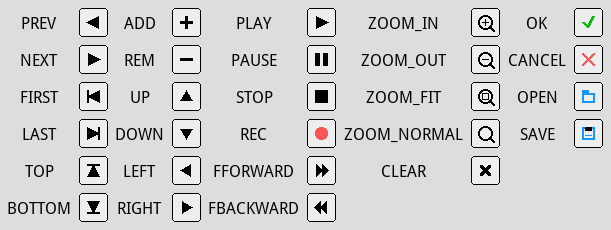
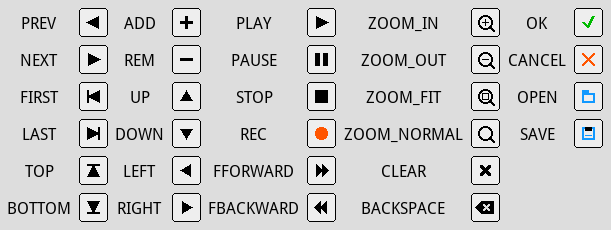
widgets: button: Add backspace button

diff --git a/libs/widgets/gp_widget_button.c b/libs/widgets/gp_widget_button.c
@@ -70,6 +70,21 @@ static void cross(gp_pixmap *buf, gp_coord cx, gp_coord cy,
 	}
 }
 
+static void backspace(gp_pixmap *pix, gp_coord cx, gp_coord cy,
+                      gp_size sym_r, gp_pixel fg, gp_pixel bg)
+{
+	gp_coord poly[] = {
+		cx + sym_r, cy-sym_r/2-sym_r/4,
+		cx + sym_r, cy+sym_r/2+sym_r/4,
+		cx - sym_r/2+sym_r/8, cy+sym_r/2+sym_r/4,
+		cx - sym_r, cy,
+		cx - sym_r/2+sym_r/8, cy-sym_r/2-sym_r/4,
+	};
+
+	gp_fill_polygon(pix, GP_ARRAY_SIZE(poly)/2, poly, fg);
+	cross(pix, cx+sym_r/4, cy, sym_r/3, sym_r/7, bg);
+}
+
 static void render(gp_widget *self, const gp_offset *offset,
                    const gp_widget_render_ctx *ctx, int flags)
 {
@@ -261,6 +276,9 @@ static void render(gp_widget *self, const gp_offset *offset,
 	case GP_BUTTON_CLEAR:
 		cross(ctx->buf, cx, cy, sym_r-sym_r/6, 2 * (asc/8)-asc/16, ctx->text_color);
 	break;
+	case GP_BUTTON_BACKSPACE:
+		backspace(ctx->buf, cx-sym_r/5, cy, sym_r+sym_r/2, ctx->text_color, ctx->bg_color);
+	break;
 	case GP_BUTTON_ZOOM_IN:
 		gp_fill_rect(ctx->buf, cx - asc/14, cy - sym_r/2,
 		             cx + asc/14, cy + sym_r/2,
@@ -369,6 +387,7 @@ static struct btn_type_names {
 	{"add", GP_BUTTON_ADD | GP_BUTTON_TEXT_RIGHT},
 	{"rem", GP_BUTTON_REM | GP_BUTTON_TEXT_RIGHT},
 	{"clear", GP_BUTTON_CLEAR | GP_BUTTON_TEXT_RIGHT},
+	{"backspace", GP_BUTTON_BACKSPACE | GP_BUTTON_TEXT_RIGHT},
 	{"zoom_in", GP_BUTTON_ZOOM_IN | GP_BUTTON_TEXT_RIGHT},
 	{"zoom_out", GP_BUTTON_ZOOM_OUT | GP_BUTTON_TEXT_RIGHT},
 	{"zoom_fit", GP_BUTTON_ZOOM_FIT | GP_BUTTON_TEXT_RIGHT},

diff --git a/include/widgets/gp_widget_button.h b/include/widgets/gp_widget_button.h
@@ -46,6 +46,7 @@ enum gp_widget_button_type {
 	GP_BUTTON_REM,
 
 	GP_BUTTON_CLEAR,
+	GP_BUTTON_BACKSPACE,
 
 	GP_BUTTON_ZOOM_IN,
 	GP_BUTTON_ZOOM_OUT,
